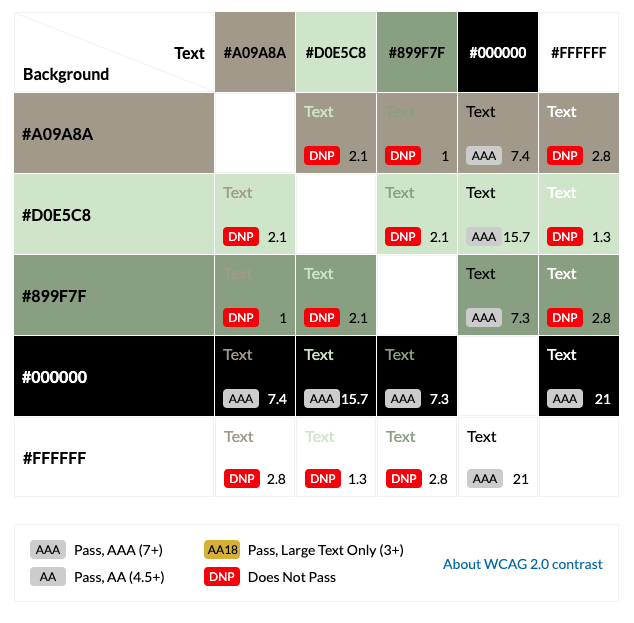
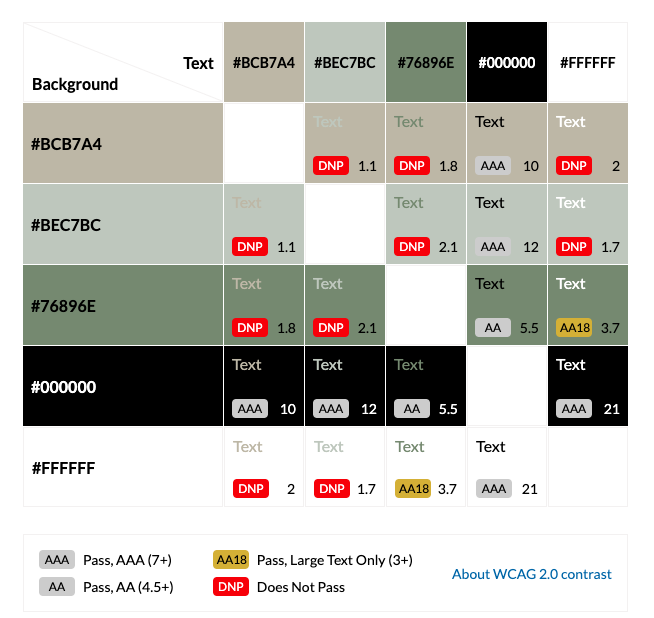
Add and style nav bar with media queries and update colour scheme.

diff --git a/index.html b/index.html
@@ -39,42 +39,151 @@
     <!-- Custom css -->
     <link rel="stylesheet" href="assets/css/style.css" />
   </head>
-  <body class="d-flex flex-column min-vh-100" data-bs-spy="scroll">
-    <h1>Science and Nature Quiz</h1>
+  <body class="d-flex flex-column min-vh-100" data-bs-target="#navbar">
+    <!-- Navigation imported from Bootstrap v5.3 -->
+    <nav id="navbar" class="navbar navbar-expand-sm fixed-top">
+      <div class="container-fluid justify-content-center">
+        <a class="navbar-brand">
+          <img
+            src="assets/images/logo.png"
+            alt="Science and Nature Logo"
+            class="logo"
+          />
+          Science and Nature Quiz</a
+        >
+        <ul class="navbar-nav ms-auto">
+          <li class="nav-item">
+            <div class="dropdown">
+              <button
+                class="btn btn-secondary dropdown-toggle"
+                type="button"
+                data-bs-toggle="dropdown"
+                aria-expanded="false"
+              >
+                Instructions
+              </button>
+              <ul class="dropdown-menu dropdown-menu-end">
+                <li>
+                  <a class="dropdown-item" href="#"
+                    >1. You will be presented with one question and four
+                    possible answers.<br />
+                    2. Select only one answer — once you click on an option, it
+                    will be locked in and automatically submitted.<br />
+                    3. You have 30 seconds to answer the question. If you do not
+                    select an option within 30 seconds, the question will be
+                    marked as unanswered.<br />
+                    4. After submission, your choice will be recorded and you’ll
+                    move onto the next question.<br />
+                    5. At the end of the quiz you will see your final score.</a
+                  >
+                </li>
+              </ul>
+            </div>
+          </li>
+          <li class="nav-item">
+            <div class="dropdown">
+              <button
+                type="button"
+                class="btn btn-secondary dropdown-toggle"
+                data-bs-toggle="dropdown"
+                aria-expanded="false"
+              >
+                Contact
+              </button>
+              <form class="dropdown-menu dropdown-menu-end p-4">
+                <div class="mb-3">
+                  <p>
+                    If you would like to contact us, please use the form below.
+                  </p>
+                  <label for="name" class="form-label">Full name</label>
+                  <input
+                    class="form-control"
+                    id="name"
+                    name="name"
+                    type="text"
+                    required
+                  />
+                </div>
+                <div class="mb-3">
+                  <label for="email" class="form-label">Email</label>
+                  <input
+                    class="form-control"
+                    id="email"
+                    name="email"
+                    type="email"
+                    required
+                  />
+                </div>
+                <div class="mb-3">
+                  <label for="enquiry" class="form-label">Enquiry</label>
+                  <select
+                    aria-label="Select your enquiry"
+                    id="enquiry"
+                    class="form-select"
+                    name="enquiry"
+                    required
+                  >
+                    <option value="" selected>Select your enquiry</option>
+                    <option value="early-prospectus">Feedback</option>
+                    <option value="lower-prospectus">Report an issue</option>
+                    <option value="upper-prospectus">General enquiry</option>
+                  </select>
+                </div>
+                <div class="mb-3">
+                  <label for="message" class="form-label">Message</label>
+                  <textarea
+                    class="form-control"
+                    rows="3"
+                    id="message"
+                    name="message"
+                    required
+                  ></textarea>
+                </div>
+                <div class="container-fluid text-center">
+                  <button type="submit" class="btn custom-button-outline mb-3">
+                    Send
+                  </button>
+                </div>
+              </form>
+            </div>
+          </li>
+        </ul>
+      </div>
+    </nav>
 
     <!-- Footer with social media links -->
     <footer class="footer-container mt-auto">
-        <div class="footer-column">
-          <a
-                href="https://www.github.com/"
-                target="_blank"
-                rel="noopener"
-                aria-label="Visit our GitHub page (opens in a new tab)"
-              >
-                <i class="fa-brands fa-github"></i
-              ></a>
-        </div>
-        <div class="footer-column">
-          <a
-                href="https://uk.linkedin.com/"
-                target="_blank"
-                rel="noopener"
-                aria-label="Visit our LinkedIn page (opens in a new tab)"
-              >
-                <i class="fa-brands fa-linkedin"></i
-              ></a>
-        </div>
-        <div class="footer-column">
-          <a
-                href="https://www.x.com/"
-                target="_blank"
-                rel="noopener"
-                aria-label="Visit our X page (opens in a new tab)"
-              >
-                <i class="fa-brands fa-x-twitter"></i
-              ></a>
-        </div>
-      </footer>
+      <div class="footer-column">
+        <a
+          href="https://www.github.com/"
+          target="_blank"
+          rel="noopener"
+          aria-label="Visit our GitHub page (opens in a new tab)"
+        >
+          <i class="fa-brands fa-github"></i
+        ></a>
+      </div>
+      <div class="footer-column">
+        <a
+          href="https://uk.linkedin.com/"
+          target="_blank"
+          rel="noopener"
+          aria-label="Visit our LinkedIn page (opens in a new tab)"
+        >
+          <i class="fa-brands fa-linkedin"></i
+        ></a>
+      </div>
+      <div class="footer-column">
+        <a
+          href="https://www.x.com/"
+          target="_blank"
+          rel="noopener"
+          aria-label="Visit our X page (opens in a new tab)"
+        >
+          <i class="fa-brands fa-x-twitter"></i
+        ></a>
+      </div>
+    </footer>
 
     <!-- Bootstrap 5.3 script -->
     <script

diff --git a/assets/css/style.css b/assets/css/style.css
@@ -3,18 +3,63 @@
 
 /* CSS Variables */ 
 :root {
-    --khaki: "#A09A8A",
+    --khaki: "#BCB7A4",
+    --light-green: "#BEC7BC",
+    --dark-green: "#76896E",
     --black: "#000000",
-    --light-green: "#D0E5C8",
-    --dark-green: "#899F7F",
     --white: "#FFFFFF",
 }
 
 /* Global styles */
 body {
-    background-color: #A09A8A;
+    background-color: #BCB7A4;
     background-image: url('/assets/images/background.jpg');
     background-size: cover;
+}
+
+/* Navbar */
+#navbar {
+    background-color: #BCB7A4;
+}
+
+#navbar .logo {
+    width: 30px;
+}
+
+.navbar-brand {
+    color: #000000;
+    font-size: xx-large;
+    font-weight: bold;
+}
+
+.dropdown-menu {
+    min-width: 300px;
+    background-color: #BEC7BC;
+    color: #000000;
+    border-color: #76896E;
+    border-width: 2px;
+    --bs-dropdown-link-hover-bg: none;
+}
+
+.custom-button-outline {
+    border-color: #76896E;
+    border-width: 2px;
+    background-color: #BCB7A4;
+}
+
+.custom-button-outline:hover {
+    background-color: #76896E;
+    border-color: #BCB7A4;
+    border-width: 2px;
+    color:#FFFFFF;
+}
+
+.btn-secondary {
+    --bs-btn-bg: #BEC7BC;
+    color:#000000;
+    --bs-btn-hover-bg: #76896E;
+    --bs-btn-active-bg: #76896E;
+    border-width: 2px;
 }
 
 /* Footer */
@@ -25,7 +70,7 @@ body {
 }
 
 .footer-column {
-    background-color: #A09A8A;
+    background-color: #BCB7A4;
     flex: 1; 
     padding: 15px; 
     width: 33.33%; 
@@ -35,4 +80,40 @@ body {
   .footer-column i {
     font-size: xx-large;
     color: #000000;
+  }
+
+  /* Media queries */
+
+/* Small devices (mobiles, up to 576px) */
+@media screen and (max-width: 576px) {
+    .navbar-brand {
+        font-size: 24px;
+  }
+
+   .ms-auto {
+    margin-left: 0!important;
+   }
+
+   .logo {
+    margin-left: 5px;
+   }
+
+    .navbar-nav {
+        flex-direction: row;
+   }
+}
+  
+  /* Medium devices (tablets, 768px and up) */
+  @media screen and (min-width: 768px) {
+    
+  }
+  
+  /* Large devices (laptops, 992px and up) */
+  @media screen and (min-width: 992px) {
+    
+  }
+  
+  /* XL devices (xl screens, 1200px and up) */
+  @media screen and (min-width: 1200px) {
+    
   }

diff --git a/README.md b/README.md
@@ -131,10 +131,10 @@ I then used [Contrast Grid](https://contrast-grid.eightshapes.com/?version=1.1.0
 
 |CSS Name               |HEX          |Use
 |-----------------------|-------------|------------------------------------------------|
-| --khaki | #A09A8A | Background colour
+| --khaki | #BCB7A4 | Background colour
+| --light-green | #BEC7BC | Button background colour |
+| --dark-green | #79896E | Button borders |
 | --black | #000000 | Text colour |
-| --light-green | #D0E5C8 | Button background colour |
-| --dark-green | #899F7F | Button borders |
 | --white | #FFFFFF |  Highlighting, button hover |
 
 Other required colours:
